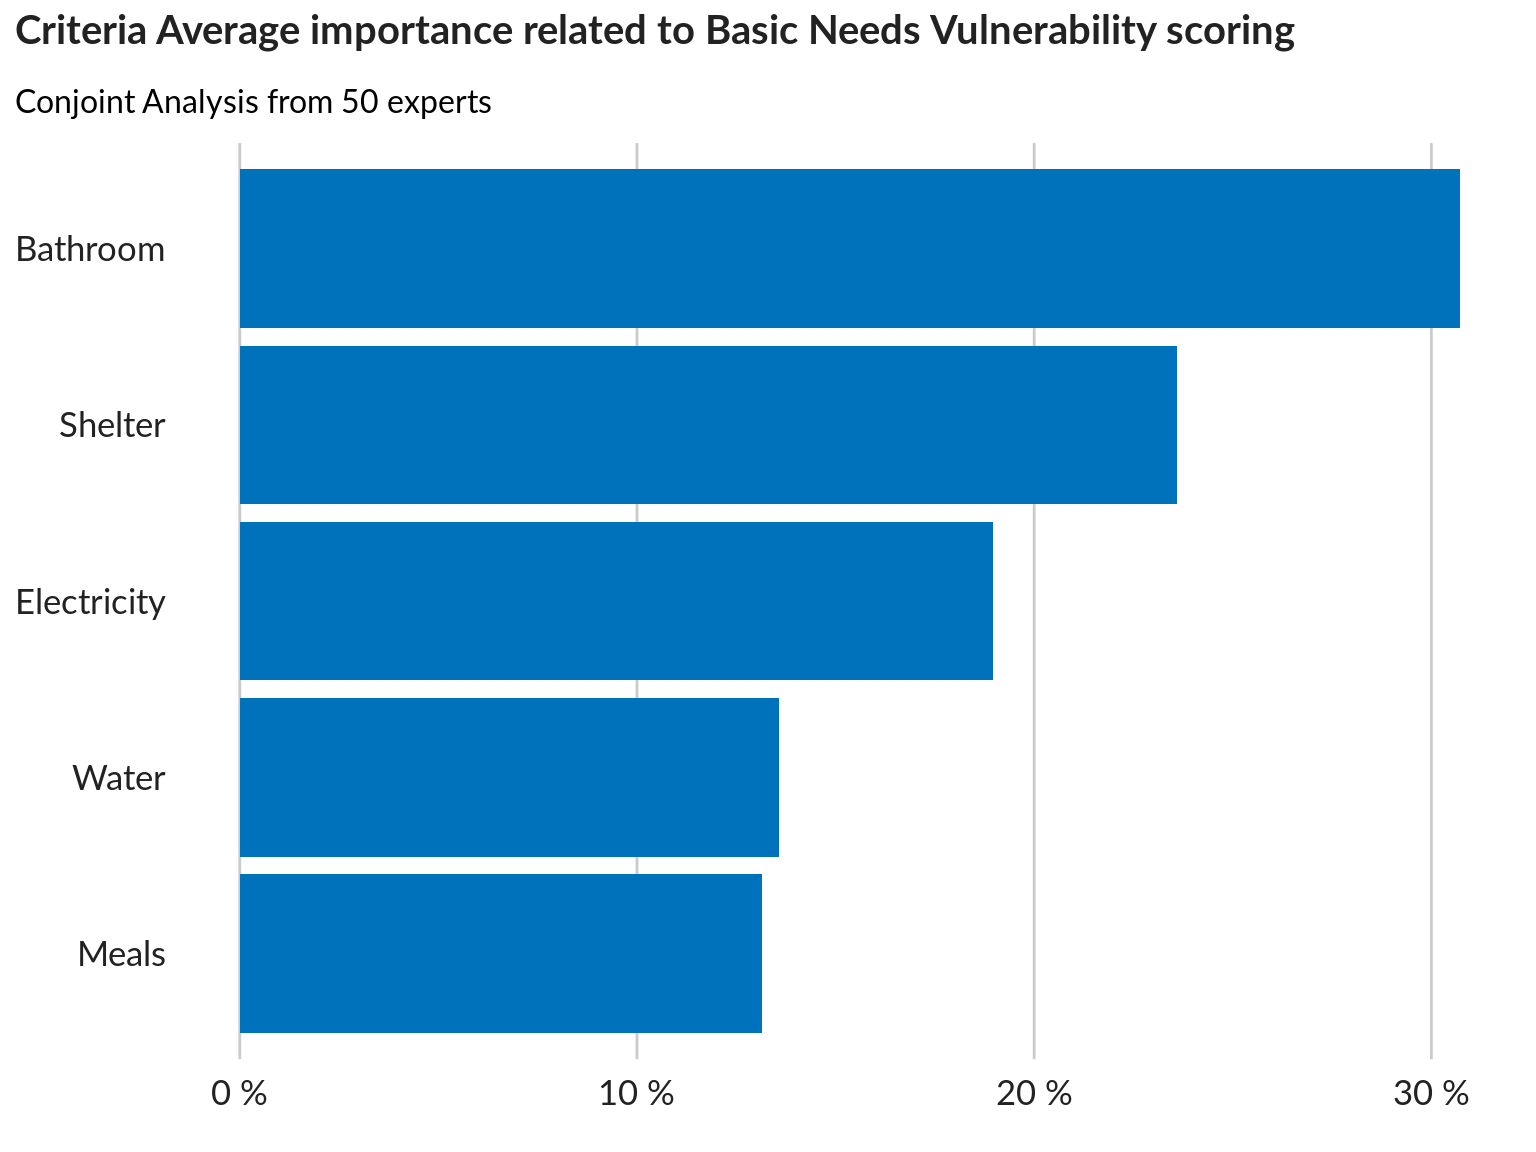
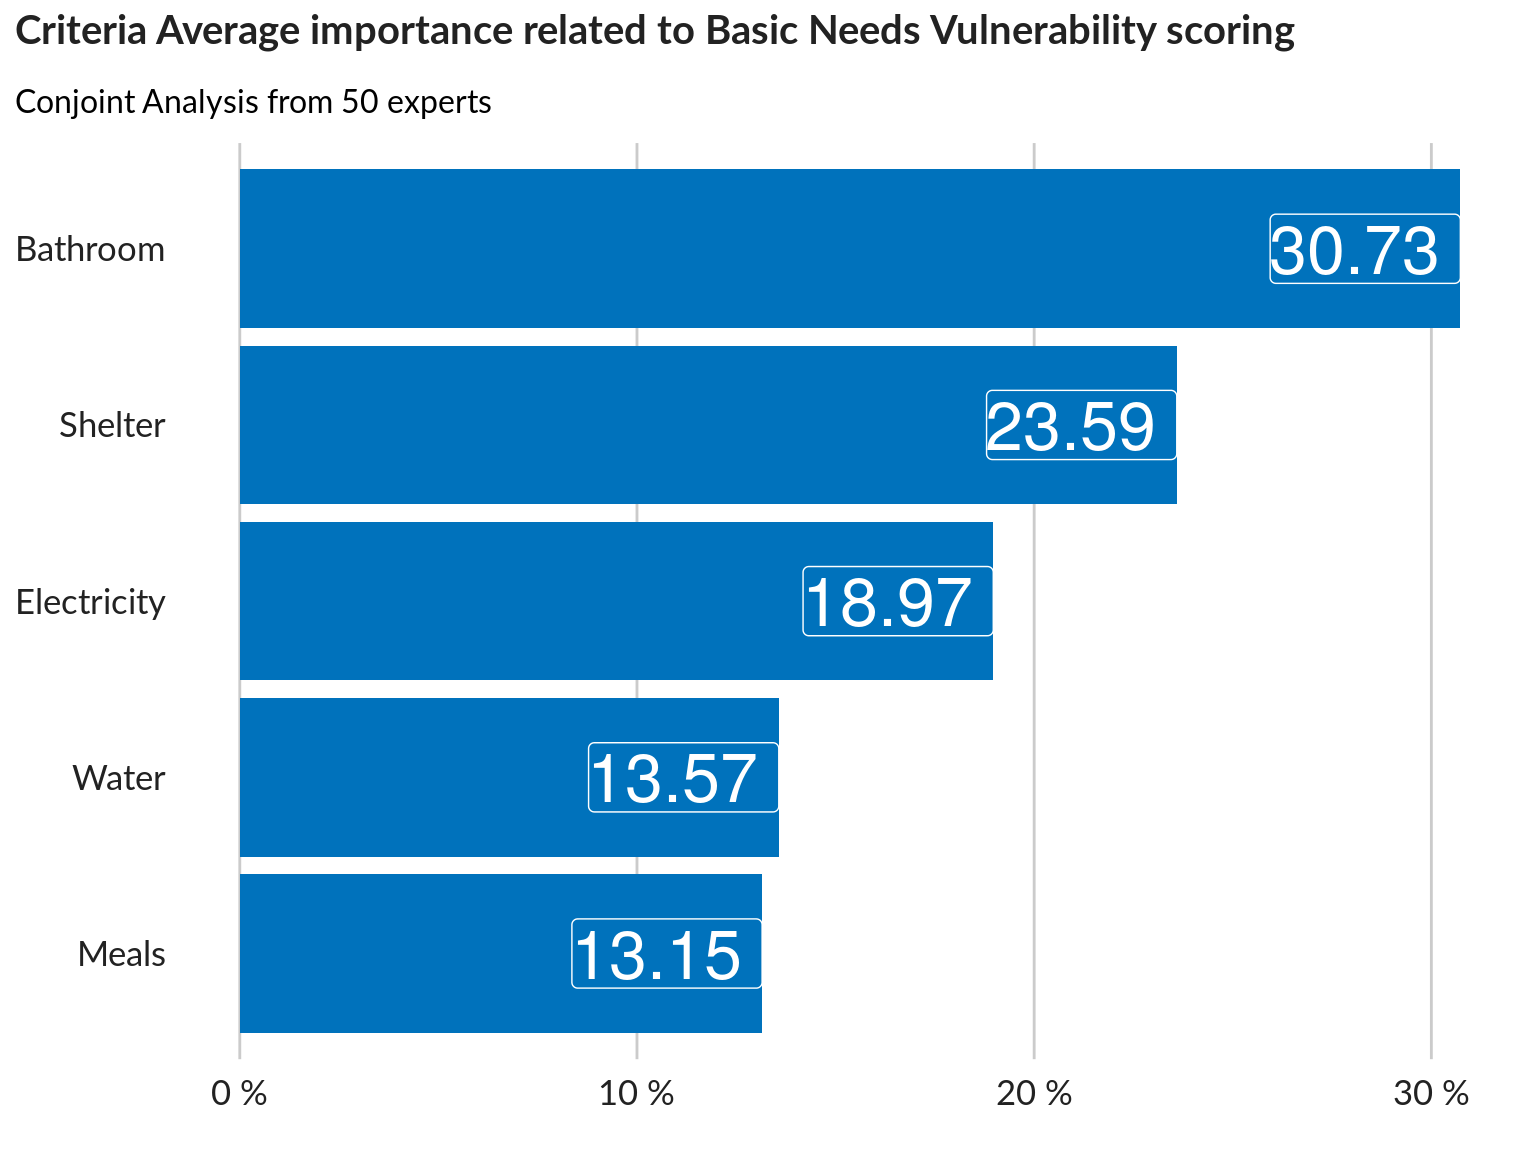
rev

diff --git a/post/conjoint-analysis/index.html b/post/conjoint-analysis/index.html
@@ -45,7 +45,7 @@
 
 <meta itemprop="datePublished" content="2020-03-19T00:00:00&#43;00:00" />
 <meta itemprop="dateModified" content="2020-03-19T00:00:00&#43;00:00" />
-<meta itemprop="wordCount" content="3494">
+<meta itemprop="wordCount" content="3511">
 
 
 
@@ -1008,7 +1008,8 @@ plot1 &lt;- ggplot(Importances.basicneeds,
        aes(x = reorder(Variable, Average), y = Average)) + 
   geom_bar(stat = &quot;identity&quot;, 
            position = &quot;identity&quot;, 
-           fill = &quot;#0072bc&quot;) + # here we configure that it will be bar chart
+           fill = &quot;#0072bc&quot;) + # here we configure that it will be bar chart  
+  geom_label(aes(label = Average), size = 9, fill = &quot;#0072bc&quot; ,  color = &quot;white&quot;, hjust = 1) + 
   coord_flip() +
   scale_y_continuous(labels = function(x)paste(x, &quot;%&quot;)) +
   unhcr_style() + ## Insert UNHCR Style

diff --git a/index.html b/index.html
@@ -901,7 +901,8 @@ plot1 &lt;- ggplot(Importances.basicneeds,
        aes(x = reorder(Variable, Average), y = Average)) + 
   geom_bar(stat = &quot;identity&quot;, 
            position = &quot;identity&quot;, 
-           fill = &quot;#0072bc&quot;) + # here we configure that it will be bar chart
+           fill = &quot;#0072bc&quot;) + # here we configure that it will be bar chart  
+  geom_label(aes(label = Average), size = 9, fill = &quot;#0072bc&quot; ,  color = &quot;white&quot;, hjust = 1) + 
   coord_flip() +
   scale_y_continuous(labels = function(x)paste(x, &quot;%&quot;)) +
   unhcr_style() + ## Insert UNHCR Style
